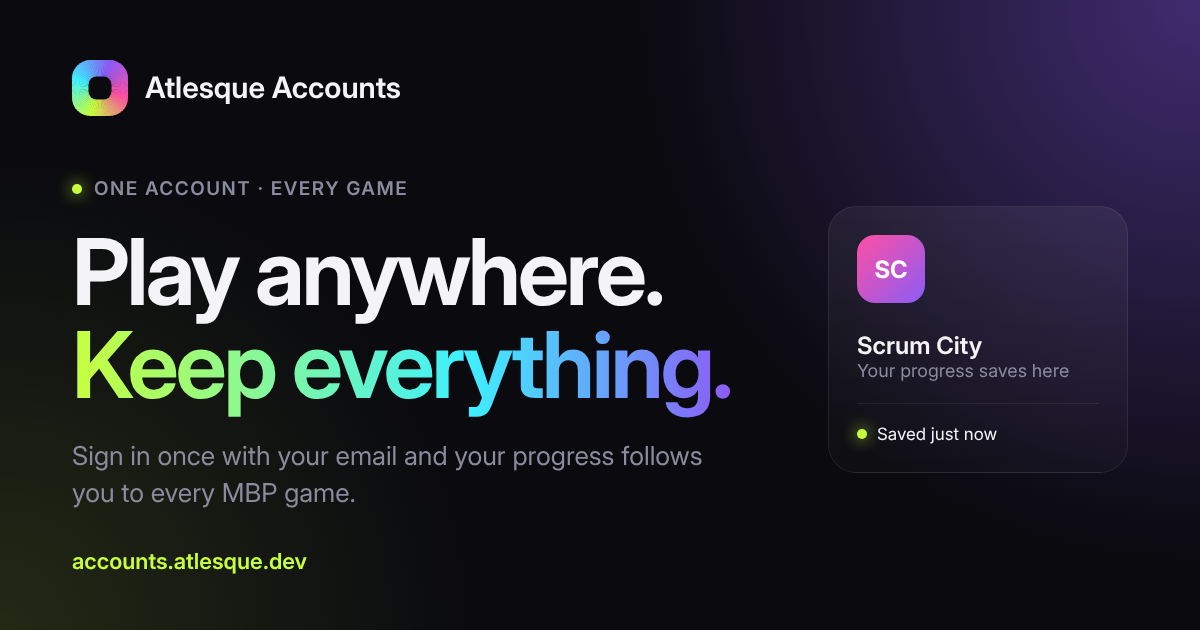
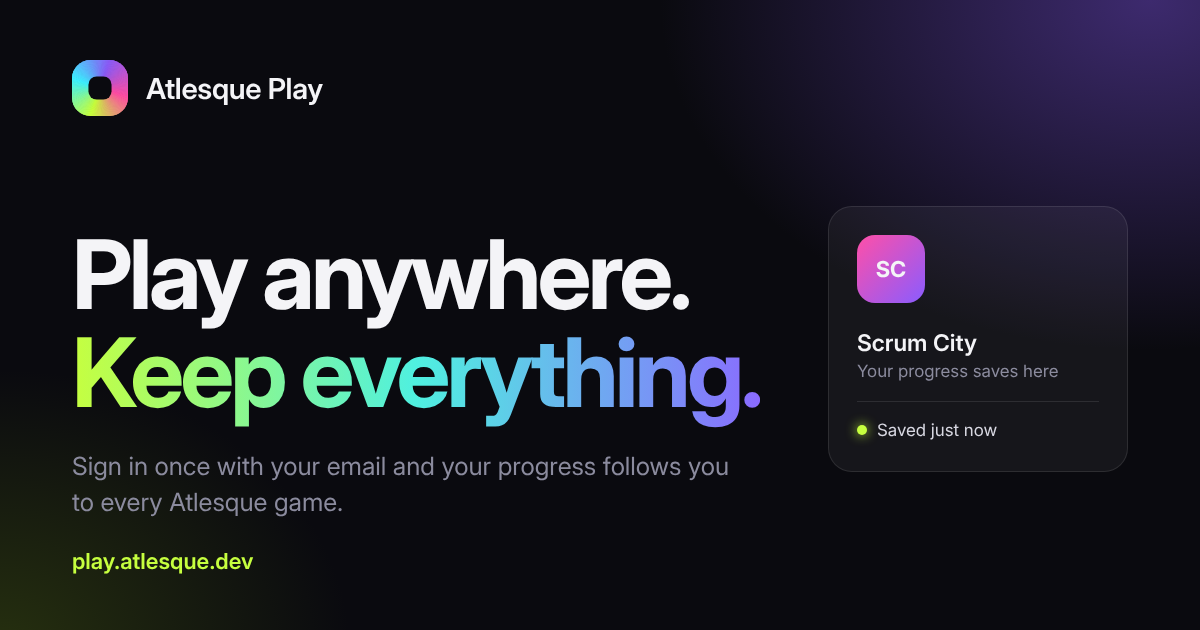
Rename Atlesque Accounts to Atlesque Play, at play.atlesque.dev (#13)
* Rename Atlesque Accounts to Atlesque Play, at play.atlesque.dev

Page titles, headers, SEO and Open Graph tags, a new share image, the web
manifest, admin, and the sign-in email now say Atlesque Play, and copy
says "every Atlesque game" instead of "every MBP game".

play.atlesque.dev becomes the Worker's main domain. accounts.atlesque.dev
stays as a second custom domain: its pages and sign-in links 301 to the
new domain, and /api/* and /mp/* still answer there so games that still
use the old address keep working. Internal names (Worker, D1 databases,
package, cookie and query-param prefixes) stay as they are.

Claude-Session: https://claude.ai/code/session_01LZMAp9kndfiNz945UTDwNJ

* Drop the "One account · every game" line

From the sign-in page hero and form, the signed-out account page, and
the share image.

Claude-Session: https://claude.ai/code/session_01LZMAp9kndfiNz945UTDwNJ

---------

diff --git a/public/signin.html b/public/signin.html
@@ -4,22 +4,22 @@
 <meta charset="utf-8">
 <meta name="viewport" content="width=device-width,initial-scale=1">
 <meta name="robots" content="noindex">
-<title>Sign in · Atlesque Accounts</title>
-<meta name="description" content="One account for every MBP game. Sign in once with your email and your progress follows you to every game, on any device. No password needed.">
-<link rel="canonical" href="https://accounts.atlesque.dev/signin">
+<title>Sign in · Atlesque Play</title>
+<meta name="description" content="One account for every Atlesque game. Sign in once with your email and your progress follows you to every game, on any device. No password needed.">
+<link rel="canonical" href="https://play.atlesque.dev/signin">
 <meta property="og:type" content="website">
-<meta property="og:site_name" content="Atlesque Accounts">
-<meta property="og:url" content="https://accounts.atlesque.dev/signin">
-<meta property="og:title" content="Sign in · Atlesque Accounts">
-<meta property="og:description" content="One account for every MBP game. Sign in once with your email and your progress follows you to every game, on any device. No password needed.">
-<meta property="og:image" content="https://accounts.atlesque.dev/og.png?v=2">
+<meta property="og:site_name" content="Atlesque Play">
+<meta property="og:url" content="https://play.atlesque.dev/signin">
+<meta property="og:title" content="Sign in · Atlesque Play">
+<meta property="og:description" content="One account for every Atlesque game. Sign in once with your email and your progress follows you to every game, on any device. No password needed.">
+<meta property="og:image" content="https://play.atlesque.dev/og.png?v=4">
 <meta property="og:image:width" content="1200">
 <meta property="og:image:height" content="630">
-<meta property="og:image:alt" content="Atlesque Accounts: Play anywhere. Keep everything.">
+<meta property="og:image:alt" content="Atlesque Play: Play anywhere. Keep everything.">
 <meta name="twitter:card" content="summary_large_image">
-<meta name="twitter:title" content="Sign in · Atlesque Accounts">
-<meta name="twitter:description" content="One account for every MBP game. Sign in once with your email and your progress follows you to every game, on any device. No password needed.">
-<meta name="twitter:image" content="https://accounts.atlesque.dev/og.png?v=2">
+<meta name="twitter:title" content="Sign in · Atlesque Play">
+<meta name="twitter:description" content="One account for every Atlesque game. Sign in once with your email and your progress follows you to every game, on any device. No password needed.">
+<meta name="twitter:image" content="https://play.atlesque.dev/og.png?v=4">
 <link rel="icon" href="/favicon.ico" sizes="32x32">
 <link rel="icon" href="/favicon.svg" type="image/svg+xml">
 <link rel="apple-touch-icon" href="/apple-touch-icon.png">
@@ -31,18 +31,17 @@
 <script src="/theme.js?v=3"></script>
 </head>
 <body>
-<header class="nav"><a class="logo" href="/"><span class="mark"></span>Atlesque Accounts</a><div class="nav-r"><span id="back"></span><button class="iconbtn" data-theme-toggle aria-label="Switch theme"><svg class="moon" viewBox="0 0 24 24" fill="none" stroke="currentColor" stroke-width="2" stroke-linecap="round" stroke-linejoin="round"><path d="M21 12.8A9 9 0 1 1 11.2 3a7 7 0 0 0 9.8 9.8z"/></svg><svg class="sun" viewBox="0 0 24 24" fill="none" stroke="currentColor" stroke-width="2" stroke-linecap="round"><circle cx="12" cy="12" r="4"/><path d="M12 2v2M12 20v2M4.9 4.9l1.4 1.4M17.7 17.7l1.4 1.4M2 12h2M20 12h2M4.9 19.1l1.4-1.4M17.7 6.3l1.4-1.4"/></svg><svg class="auto" viewBox="0 0 24 24" fill="none" stroke="currentColor" stroke-width="2"><circle cx="12" cy="12" r="9"/><path d="M12 3a9 9 0 0 1 0 18z" fill="currentColor" stroke="none"/></svg></button></div></header>
+<header class="nav"><a class="logo" href="/"><span class="mark"></span>Atlesque Play</a><div class="nav-r"><span id="back"></span><button class="iconbtn" data-theme-toggle aria-label="Switch theme"><svg class="moon" viewBox="0 0 24 24" fill="none" stroke="currentColor" stroke-width="2" stroke-linecap="round" stroke-linejoin="round"><path d="M21 12.8A9 9 0 1 1 11.2 3a7 7 0 0 0 9.8 9.8z"/></svg><svg class="sun" viewBox="0 0 24 24" fill="none" stroke="currentColor" stroke-width="2" stroke-linecap="round"><circle cx="12" cy="12" r="4"/><path d="M12 2v2M12 20v2M4.9 4.9l1.4 1.4M17.7 17.7l1.4 1.4M2 12h2M20 12h2M4.9 19.1l1.4-1.4M17.7 6.3l1.4-1.4"/></svg><svg class="auto" viewBox="0 0 24 24" fill="none" stroke="currentColor" stroke-width="2"><circle cx="12" cy="12" r="9"/><path d="M12 3a9 9 0 0 1 0 18z" fill="currentColor" stroke="none"/></svg></button></div></header>
 <div class="split">
   <section class="hero">
-    <p class="eyebrow"><span class="dot"></span>One account · every game</p>
     <h1>Play anywhere.<br><span class="grad">Keep everything.</span></h1>
-    <p>Sign in once with your email and your progress follows you to every MBP game, on any device. No password to remember.</p>
+    <p>Sign in once with your email and your progress follows you to every Atlesque game, on any device. No password to remember.</p>
     <div class="tiles" id="tiles"></div>
   </section>
   <main class="card" aria-live="polite"><div id="view"><p><span class="spin"></span>Loading…</p></div></main>
 </div>
 <script>
-// The hosted sign-in every MBP game sends players to. One email link both confirms the address and signs in;
+// The hosted sign-in every Atlesque game sends players to. One email link both confirms the address and signs in;
 // this tab waits for it (the link can be opened on any device) and then goes back to the game.
 const q = Object.fromEntries(new URLSearchParams(location.search));
 const target = q.client ? { client: q.client, redirect_uri: q.redirect_uri, state: q.state, code_challenge: q.code_challenge } : { next: q.next };
@@ -53,7 +52,7 @@ const post = (path, body) => fetch(path, { method: 'POST', headers: { 'content-t
 let game = null, timer = 0;
 const KEY = 'mbpg_wait:' + location.search; // a reload keeps waiting for the same link
 
-const gameName = () => game ? esc(game.name) : 'Atlesque Accounts';
+const gameName = () => game ? esc(game.name) : 'Atlesque Play';
 const shortName = () => esc(game.name.replace(/^MBP\s*-\s*/, ''));
 const initials = () => game.name.replace(/^MBP\s*-\s*/, '').split(/\s+/).map(w => w[0]).join('').slice(0, 2);
 const backLink = () => game ? `<p class="small center" style="margin:18px 0 0"><a href="${esc(game.url)}">Back to ${shortName()} without signing in</a></p>` : '';
@@ -61,7 +60,7 @@ const arrow = '<svg width="18" height="18" viewBox="0 0 24 24" fill="none" strok
 
 function emailForm(msg) {
   clearTimeout(timer); sessionStorage.removeItem(KEY);
-  view.innerHTML = `<p class="eyebrow">${game ? 'Sign in to' : 'One account · every game'}</p><h1>${game ? shortName() : 'Sign in'}</h1>
+  view.innerHTML = `${game ? '<p class="eyebrow">Sign in to</p>' : ''}<h1>${game ? shortName() : 'Sign in'}</h1>
 <p class="muted">New here? The same email link creates your account. No password needed.</p>
 <form id="f"><label for="email">Email</label><input id="email" type="email" autocomplete="email" placeholder="you@example.com" required autofocus>
 <p id="msg" class="err" role="alert" style="margin:10px 0 0">${msg ? esc(msg) : ''}</p><button class="btn" id="go">Email me a sign-in link ${arrow}</button></form>
@@ -81,7 +80,7 @@ function emailForm(msg) {
 function waiting(w) {
   view.innerHTML = `<div class="center"><div class="inbox"><svg width="48" height="48" viewBox="0 0 24 24" fill="none" stroke="currentColor" stroke-width="1.8" aria-hidden="true"><rect x="3" y="5" width="18" height="14" rx="3"/><path d="m3 7 9 6 9-6"/></svg></div>
 <h1>Check your email</h1><p class="muted">We just emailed a sign-in link to <b style="color:var(--ink)">${esc(w.email)}</b>.</p></div>
-<ol class="steps"><li>Open the email from Atlesque Accounts. It's fine to use your phone or another device.</li><li>Press <b>Sign in</b> in the email, then <b>Sign in</b> again on the page it opens.</li><li>That's it. This page will sign you in by itself, so you can leave it open.</li></ol>
+<ol class="steps"><li>Open the email from Atlesque Play. It's fine to use your phone or another device.</li><li>Press <b>Sign in</b> in the email, then <b>Sign in</b> again on the page it opens.</li><li>That's it. This page will sign you in by itself, so you can leave it open.</li></ol>
 <div class="note"><span class="spin"></span>Waiting for you to open the link…</div>
 <p class="small center">No email after a minute? Look in your spam folder, or <a href="#" id="again">try a different email</a>.</p>`;
   document.getElementById('again').addEventListener('click', e => { e.preventDefault(); emailForm(); });

diff --git a/public/index.html b/public/index.html
@@ -3,35 +3,35 @@
 <head>
 <meta charset="utf-8">
 <meta name="viewport" content="width=device-width,initial-scale=1">
-<title>Atlesque Accounts · One sign-in, every game</title>
-<meta name="description" content="One account for every MBP game. Sign in once with your email and your progress follows you to every game, on any device. No password needed.">
-<link rel="canonical" href="https://accounts.atlesque.dev/">
+<title>Atlesque Play · One sign-in, every game</title>
+<meta name="description" content="One account for every Atlesque game. Sign in once with your email and your progress follows you to every game, on any device. No password needed.">
+<link rel="canonical" href="https://play.atlesque.dev/">
 <meta property="og:type" content="website">
-<meta property="og:site_name" content="Atlesque Accounts">
-<meta property="og:url" content="https://accounts.atlesque.dev/">
-<meta property="og:title" content="Atlesque Accounts · One sign-in, every game">
-<meta property="og:description" content="One account for every MBP game. Sign in once with your email and your progress follows you to every game, on any device. No password needed.">
-<meta property="og:image" content="https://accounts.atlesque.dev/og.png?v=2">
+<meta property="og:site_name" content="Atlesque Play">
+<meta property="og:url" content="https://play.atlesque.dev/">
+<meta property="og:title" content="Atlesque Play · One sign-in, every game">
+<meta property="og:description" content="One account for every Atlesque game. Sign in once with your email and your progress follows you to every game, on any device. No password needed.">
+<meta property="og:image" content="https://play.atlesque.dev/og.png?v=4">
 <meta property="og:image:width" content="1200">
 <meta property="og:image:height" content="630">
-<meta property="og:image:alt" content="Atlesque Accounts: Play anywhere. Keep everything.">
+<meta property="og:image:alt" content="Atlesque Play: Play anywhere. Keep everything.">
 <meta name="twitter:card" content="summary_large_image">
-<meta name="twitter:title" content="Atlesque Accounts · One sign-in, every game">
-<meta name="twitter:description" content="One account for every MBP game. Sign in once with your email and your progress follows you to every game, on any device. No password needed.">
-<meta name="twitter:image" content="https://accounts.atlesque.dev/og.png?v=2">
+<meta name="twitter:title" content="Atlesque Play · One sign-in, every game">
+<meta name="twitter:description" content="One account for every Atlesque game. Sign in once with your email and your progress follows you to every game, on any device. No password needed.">
+<meta name="twitter:image" content="https://play.atlesque.dev/og.png?v=4">
 <link rel="icon" href="/favicon.ico" sizes="32x32">
 <link rel="icon" href="/favicon.svg" type="image/svg+xml">
 <link rel="apple-touch-icon" href="/apple-touch-icon.png">
 <link rel="manifest" href="/site.webmanifest">
 <meta name="theme-color" content="#0a0a0f" media="(prefers-color-scheme: dark)">
 <meta name="theme-color" content="#f6f6f9" media="(prefers-color-scheme: light)">
-<script type="application/ld+json">{"@context":"https://schema.org","@type":"WebSite","name":"Atlesque Accounts","url":"https://accounts.atlesque.dev/","description":"One account for every MBP game: sign in once, keep your progress."}</script>
+<script type="application/ld+json">{"@context":"https://schema.org","@type":"WebSite","name":"Atlesque Play","url":"https://play.atlesque.dev/","description":"One account for every Atlesque game: sign in once, keep your progress."}</script>
 <link rel="stylesheet" href="/style.css?v=3">
 <link rel="preload" href="/fonts/inter.woff2" as="font" type="font/woff2" crossorigin>
 <script src="/theme.js?v=3"></script>
 </head>
 <body>
-<header class="nav"><a class="logo" href="/"><span class="mark"></span>Atlesque Accounts</a><div class="nav-r"><span id="me" class="row"></span><button class="iconbtn" data-theme-toggle aria-label="Switch theme"><svg class="moon" viewBox="0 0 24 24" fill="none" stroke="currentColor" stroke-width="2" stroke-linecap="round" stroke-linejoin="round"><path d="M21 12.8A9 9 0 1 1 11.2 3a7 7 0 0 0 9.8 9.8z"/></svg><svg class="sun" viewBox="0 0 24 24" fill="none" stroke="currentColor" stroke-width="2" stroke-linecap="round"><circle cx="12" cy="12" r="4"/><path d="M12 2v2M12 20v2M4.9 4.9l1.4 1.4M17.7 17.7l1.4 1.4M2 12h2M20 12h2M4.9 19.1l1.4-1.4M17.7 6.3l1.4-1.4"/></svg><svg class="auto" viewBox="0 0 24 24" fill="none" stroke="currentColor" stroke-width="2"><circle cx="12" cy="12" r="9"/><path d="M12 3a9 9 0 0 1 0 18z" fill="currentColor" stroke="none"/></svg></button></div></header>
+<header class="nav"><a class="logo" href="/"><span class="mark"></span>Atlesque Play</a><div class="nav-r"><span id="me" class="row"></span><button class="iconbtn" data-theme-toggle aria-label="Switch theme"><svg class="moon" viewBox="0 0 24 24" fill="none" stroke="currentColor" stroke-width="2" stroke-linecap="round" stroke-linejoin="round"><path d="M21 12.8A9 9 0 1 1 11.2 3a7 7 0 0 0 9.8 9.8z"/></svg><svg class="sun" viewBox="0 0 24 24" fill="none" stroke="currentColor" stroke-width="2" stroke-linecap="round"><circle cx="12" cy="12" r="4"/><path d="M12 2v2M12 20v2M4.9 4.9l1.4 1.4M17.7 17.7l1.4 1.4M2 12h2M20 12h2M4.9 19.1l1.4-1.4M17.7 6.3l1.4-1.4"/></svg><svg class="auto" viewBox="0 0 24 24" fill="none" stroke="currentColor" stroke-width="2"><circle cx="12" cy="12" r="9"/><path d="M12 3a9 9 0 0 1 0 18z" fill="currentColor" stroke="none"/></svg></button></div></header>
 <main class="wrap" id="view"><p><span class="spin"></span>Loading…</p></main>
 <script>
 // The account hub: who you're signed in as and the games you've played.
@@ -48,8 +48,8 @@ const short = n => n.replace(/^MBP\s*-\s*/, '');
 const initials = n => short(n).split(/\s+/).map(w => w[0]).join('').slice(0, 2);
 fetch('/api/account').then(r => r.json()).then(a => {
   if (!a.user) {
-    view.innerHTML = `<div class="card" style="max-width:460px;margin:8vh auto 0"><p class="eyebrow"><span class="dot"></span>One account · every game</p>
-<h1>Your Atlesque account</h1><p class="muted">Sign in once with your email and your progress follows you to every MBP game. No password needed.</p><a class="btn" href="/signin">Sign in</a></div>`;
+    view.innerHTML = `<div class="card" style="max-width:460px;margin:8vh auto 0">
+<h1>Your Atlesque account</h1><p class="muted">Sign in once with your email and your progress follows you to every Atlesque game. No password needed.</p><a class="btn" href="/signin">Sign in</a></div>`;
     return;
   }
   const email = esc(a.user.email), letter = esc(a.user.email[0]);

diff --git a/src/index.js b/src/index.js
@@ -3,8 +3,8 @@ import { sendSignInEmail, signInEmail } from './email.js';
 import { GameRoom } from './room.js';
 import { DAY, HOUR, HttpError, MIN, cookie, esc, getCookie, hash, json, normalizeEmail, now, pkceChallenge, randomToken, readJson } from './util.js';
 
-// ================= ATLESQUE ACCOUNTS =================
-// One account per email, shared by every MBP game. Sign-in is passwordless: the player asks for a link on
+// ================= ATLESQUE PLAY =================
+// One account per email, shared by every Atlesque game. Sign-in is passwordless: the player asks for a link on
 // the hosted page (/signin), the emailed link confirms the address, and the tab that asked carries on.
 // Games never see the email flow: they send the player to /signin with a PKCE challenge and swap the
 // code they get back for a bearer token (/api/token). The admin page (/admin) is for ADMIN_EMAILS.
@@ -14,9 +14,17 @@ const WEB_COOKIE = 'mbpg_session';
 const MAX_SAVE = 64 * 1024;
 const LIMITS = { perEmail: [5, 15 * MIN], perIp: [20, HOUR] };
 
+// The site's old name. Its pages and sign-in links move to play.atlesque.dev; the game API and multiplayer
+// still answer here, so a game that hasn't switched over keeps working.
+const OLD_HOST = 'accounts.atlesque.dev', HOST = 'play.atlesque.dev';
+
 export default {
   async fetch(req, env, ctx) {
     const url = new URL(req.url);
+    if (url.hostname === OLD_HOST && (req.method === 'GET' || req.method === 'HEAD') && !/^\/(api|mp)\//.test(url.pathname)) {
+      url.hostname = HOST;
+      return Response.redirect(url.toString(), 301);
+    }
     // multiplayer: the WebSocket goes straight to the game's room, untouched (a 101 response can't take CORS headers)
     const mp = url.pathname.match(/^\/mp\/([a-z0-9-]+)$/);
     if (mp) return joinRoom(req, env, mp[1]);
@@ -139,7 +147,7 @@ function readTarget(q) {
     return { client: null, next };
   }
   if (!GAMES[client]) throw new HttpError(400, 'bad_client', 'That game is not one of ours.');
-  if (!redirectAllowed(client, q.redirect_uri)) throw new HttpError(400, 'bad_redirect', 'That page is not allowed to sign in with Atlesque Accounts.');
+  if (!redirectAllowed(client, q.redirect_uri)) throw new HttpError(400, 'bad_redirect', 'That page is not allowed to sign in with Atlesque Play.');
   if (typeof q.code_challenge !== 'string' || !/^[A-Za-z0-9_-]{43}$/.test(q.code_challenge)) throw new HttpError(400, 'bad_challenge', 'The game sent an invalid sign-in request.');
   return { client, redirect_uri: q.redirect_uri, state: typeof q.state === 'string' ? q.state.slice(0, 200) : '', code_challenge: q.code_challenge };
 }
@@ -260,8 +268,8 @@ async function confirmLink(req, env) {
 }
 function page(title, body, status = 200, headers = {}) {
   return new Response(`<!doctype html><html lang="en"><head><meta charset="utf-8"><meta name="viewport" content="width=device-width,initial-scale=1"><meta name="robots" content="noindex">
-<title>${esc(title)} · Atlesque Accounts</title><link rel="icon" href="/favicon.ico" sizes="32x32"><link rel="icon" href="/favicon.svg" type="image/svg+xml"><link rel="apple-touch-icon" href="/apple-touch-icon.png"><link rel="stylesheet" href="/style.css?v=3"><script src="/theme.js?v=3"></script></head>
-<body><header class="nav"><a class="logo" href="/"><span class="mark"></span>Atlesque Accounts</a></header><main class="card narrow">${body}</main></body></html>`,
+<title>${esc(title)} · Atlesque Play</title><link rel="icon" href="/favicon.ico" sizes="32x32"><link rel="icon" href="/favicon.svg" type="image/svg+xml"><link rel="apple-touch-icon" href="/apple-touch-icon.png"><link rel="stylesheet" href="/style.css?v=3"><script src="/theme.js?v=3"></script></head>
+<body><header class="nav"><a class="logo" href="/"><span class="mark"></span>Atlesque Play</a></header><main class="card narrow">${body}</main></body></html>`,
   { status, headers: { 'content-type': 'text/html; charset=utf-8', 'cache-control': 'no-store', 'referrer-policy': 'same-origin', ...headers } });
 }
 

diff --git a/src/email.js b/src/email.js
@@ -5,7 +5,7 @@ import { esc } from './util.js';
 // the link is logged instead, so sign-in still works on a laptop.
 
 // Says who sent it and why, in both parts: a bare "Sign in" button from an unknown sender reads like phishing to Gmail.
-const FOOTER = 'You got this email because someone asked to sign in with this address at accounts.atlesque.dev, the account page for Atlesque Accounts.';
+const FOOTER = 'You got this email because someone asked to sign in with this address at play.atlesque.dev, the sign-in page for Atlesque Play.';
 
 export function signInEmail({ link, gameName, minutes }) {
   const what = gameName ? `to keep playing ${gameName}` : 'to your Atlesque account';
@@ -15,7 +15,7 @@ export function signInEmail({ link, gameName, minutes }) {
   const html = `<!doctype html><html><body style="margin:0;background:#0a0a0f;font-family:Inter,Arial,Helvetica,sans-serif;color:#f4f4f7">
 <table width="100%" cellpadding="0" cellspacing="0" style="background:#0a0a0f;padding:32px 12px"><tr><td align="center">
 <table width="100%" cellpadding="0" cellspacing="0" style="max-width:480px;background:#14141c;border:1px solid #26262f;border-radius:24px;padding:32px">
-<tr><td style="font-size:13px;font-weight:bold;letter-spacing:.08em;text-transform:uppercase;color:#8b8b9e">Atlesque Accounts</td></tr>
+<tr><td style="font-size:13px;font-weight:bold;letter-spacing:.08em;text-transform:uppercase;color:#8b8b9e">Atlesque Play</td></tr>
 <tr><td style="padding:14px 0 6px;font-size:26px;font-weight:bold;letter-spacing:-.02em">Sign in ${esc(what)}</td></tr>
 <tr><td style="padding:6px 0 22px;font-size:15px;line-height:1.5;color:#b4b4c4">Press the button to sign in. It also confirms this email address for your Atlesque account.</td></tr>
 <tr><td><a href="${esc(link)}" style="display:inline-block;background:#c8ff3d;color:#0a0a0f;font-weight:bold;text-decoration:none;padding:14px 30px;border-radius:99px;font-size:16px">Sign in</a></td></tr>
@@ -23,12 +23,12 @@ export function signInEmail({ link, gameName, minutes }) {
 <tr><td style="padding:16px 0 0;font-size:13px;line-height:1.5;color:#8b8b9e">Button not working? Copy this link into your browser:<br><a href="${esc(link)}" style="color:#b4b4c4;word-break:break-all">${esc(link)}</a></td></tr>
 </table>
 <p style="max-width:480px;margin:16px auto 0;font-size:12px;line-height:1.5;color:#8b8b9e">${esc(FOOTER)}</p></td></tr></table></body></html>`;
-  return { subject: gameName ? `Sign in to ${gameName}` : 'Sign in to Atlesque Accounts', text, html };
+  return { subject: gameName ? `Sign in to ${gameName}` : 'Sign in to Atlesque Play', text, html };
 }
 
 // answers 'sent', or 'logged' when there is no mail service; throws when the mail service refuses
 export async function sendSignInEmail(env, to, msg) {
   if (!env.EMAIL) { console.log(`[mbp-games] no EMAIL binding; sign-in mail for ${to}:\n${msg.text}`); return 'logged'; }
-  await env.EMAIL.send({ to, from: { email: env.MAIL_FROM, name: env.MAIL_FROM_NAME || 'Atlesque Accounts' }, subject: msg.subject, text: msg.text, html: msg.html });
+  await env.EMAIL.send({ to, from: { email: env.MAIL_FROM, name: env.MAIL_FROM_NAME || 'Atlesque Play' }, subject: msg.subject, text: msg.text, html: msg.html });
   return 'sent';
 }

diff --git a/public/admin.html b/public/admin.html
@@ -4,7 +4,7 @@
 <meta charset="utf-8">
 <meta name="viewport" content="width=device-width,initial-scale=1">
 <meta name="robots" content="noindex">
-<title>Atlesque Accounts admin</title>
+<title>Atlesque Play admin</title>
 <link rel="icon" href="/favicon.ico" sizes="32x32">
 <link rel="icon" href="/favicon.svg" type="image/svg+xml">
 <link rel="apple-touch-icon" href="/apple-touch-icon.png">
@@ -16,7 +16,7 @@
 <script src="/theme.js?v=3"></script>
 </head>
 <body>
-<header class="nav"><div class="row"><a class="logo" href="/"><span class="mark"></span>Atlesque Accounts</a><span class="tag">Admin</span></div><div class="nav-r"><a class="sbtn" href="/">Account</a><span id="me"></span><button class="iconbtn" data-theme-toggle aria-label="Switch theme"><svg class="moon" viewBox="0 0 24 24" fill="none" stroke="currentColor" stroke-width="2" stroke-linecap="round" stroke-linejoin="round"><path d="M21 12.8A9 9 0 1 1 11.2 3a7 7 0 0 0 9.8 9.8z"/></svg><svg class="sun" viewBox="0 0 24 24" fill="none" stroke="currentColor" stroke-width="2" stroke-linecap="round"><circle cx="12" cy="12" r="4"/><path d="M12 2v2M12 20v2M4.9 4.9l1.4 1.4M17.7 17.7l1.4 1.4M2 12h2M20 12h2M4.9 19.1l1.4-1.4M17.7 6.3l1.4-1.4"/></svg><svg class="auto" viewBox="0 0 24 24" fill="none" stroke="currentColor" stroke-width="2"><circle cx="12" cy="12" r="9"/><path d="M12 3a9 9 0 0 1 0 18z" fill="currentColor" stroke="none"/></svg></button></div></header>
+<header class="nav"><div class="row"><a class="logo" href="/"><span class="mark"></span>Atlesque Play</a><span class="tag">Admin</span></div><div class="nav-r"><a class="sbtn" href="/">Account</a><span id="me"></span><button class="iconbtn" data-theme-toggle aria-label="Switch theme"><svg class="moon" viewBox="0 0 24 24" fill="none" stroke="currentColor" stroke-width="2" stroke-linecap="round" stroke-linejoin="round"><path d="M21 12.8A9 9 0 1 1 11.2 3a7 7 0 0 0 9.8 9.8z"/></svg><svg class="sun" viewBox="0 0 24 24" fill="none" stroke="currentColor" stroke-width="2" stroke-linecap="round"><circle cx="12" cy="12" r="4"/><path d="M12 2v2M12 20v2M4.9 4.9l1.4 1.4M17.7 17.7l1.4 1.4M2 12h2M20 12h2M4.9 19.1l1.4-1.4M17.7 6.3l1.4-1.4"/></svg><svg class="auto" viewBox="0 0 24 24" fill="none" stroke="currentColor" stroke-width="2"><circle cx="12" cy="12" r="9"/><path d="M12 3a9 9 0 0 1 0 18z" fill="currentColor" stroke="none"/></svg></button></div></header>
 <main class="wrap">
   <div id="view"><p><span class="spin"></span>Loading…</p></div>
 </main>

diff --git a/test/accounts.test.js b/test/accounts.test.js
@@ -4,7 +4,7 @@ import { redirectAllowed } from '../src/clients.js';
 import { pkceChallenge } from '../src/util.js';
 import { makeD1 } from './d1.js';
 
-const APP = 'https://accounts.atlesque.dev', GAME = 'https://mbp-scrum-city.atlesque.dev', BACK = `${GAME}/`;
+const APP = 'https://play.atlesque.dev', GAME = 'https://mbp-scrum-city.atlesque.dev', BACK = `${GAME}/`;
 let env, mails;
 beforeEach(() => {
   mails = [];
@@ -47,7 +47,7 @@ async function signIn(email = 'player@example.com') {
   return { ...(await tok.json()), cookie: cookieOf(done), code: back.searchParams.get('mbpg_code'), verifier, request, poll };
 }
 
-describe('Atlesque Accounts sign-in', () => {
+describe('Atlesque Play sign-in', () => {
   it('signs a new player in by email link and hands the game a token', async () => {
     const s = await signIn();
     expect(s.user.email).toBe('player@example.com');
@@ -92,6 +92,23 @@ describe('Atlesque Accounts sign-in', () => {
   it('limits how many emails one address can ask for', async () => {
     for (let i = 0; i < 5; i++) expect((await call('/api/signin/start', { method: 'POST', origin: APP, body: { email: 'spam@b.co' } })).status).toBe(200);
     expect((await call('/api/signin/start', { method: 'POST', origin: APP, body: { email: 'spam@b.co' } })).status).toBe(429);
+  });
+});
+
+describe('old domain', () => {
+  const OLD = 'https://accounts.atlesque.dev';
+  it('sends pages and sign-in links on to play.atlesque.dev', async () => {
+    for (const path of ['/', '/signin?client=scrum-city&state=s1', '/admin', '/auth/link?t=abc']) {
+      const res = await worker.fetch(new Request(OLD + path), env, {});
+      expect(res.status).toBe(301);
+      expect(res.headers.get('location')).toBe(APP + path);
+    }
+  });
+  it('still answers the game API for games that use the old address', async () => {
+    const { token } = await signIn();
+    const res = await worker.fetch(new Request(OLD + '/api/me', { headers: { origin: GAME, authorization: `Bearer ${token}` } }), env, {});
+    expect(res.status).toBe(200);
+    expect((await res.json()).user.email).toBe('player@example.com');
   });
 });
 

diff --git a/test/room.test.js b/test/room.test.js
@@ -93,7 +93,7 @@ describe('multiplayer room', () => {
 
   it('only lets the game\'s own pages in', async () => {
     const env = { ROOMS: { idFromName: n => n, get: () => ({ fetch: async () => new Response('room') }) } };
-    const ask = (path, origin) => worker.fetch(new Request('https://accounts.atlesque.dev' + path, { headers: { upgrade: 'websocket', ...(origin ? { origin } : {}) } }), env, {});
+    const ask = (path, origin) => worker.fetch(new Request('https://play.atlesque.dev' + path, { headers: { upgrade: 'websocket', ...(origin ? { origin } : {}) } }), env, {});
     expect((await ask('/mp/scrum-city', 'https://evil.example')).status).toBe(403);
     expect((await ask('/mp/nope', 'https://mbp-scrum-city.atlesque.dev')).status).toBe(404);
     expect(await (await ask('/mp/scrum-city', 'https://mbp-scrum-city.atlesque.dev')).text()).toBe('room');

diff --git a/public/style.css b/public/style.css
@@ -1,4 +1,4 @@
-/* Atlesque Accounts: follows the device (auto) unless the player picks light or dark (theme.js) */
+/* Atlesque Play: follows the device (auto) unless the player picks light or dark (theme.js) */
 @font-face{font-family:'Inter';src:url(/fonts/inter.woff2) format('woff2');font-weight:100 900;font-display:swap}
 :root{
   --bg:#0a0a0f; --surface:#14141c; --surface-2:#1c1c27; --line:rgba(255,255,255,.07); --hair:rgba(255,255,255,.25);

diff --git a/README.md b/README.md
@@ -1,6 +1,6 @@
-# Atlesque Accounts
+# Atlesque Play
 
-One account for every MBP game: players sign in once with their email and their progress in each game is saved to it. A Cloudflare Worker with a D1 database, at **https://accounts.atlesque.dev**.
+One account for every Atlesque game: players sign in once with their email and their progress in each game is saved to it. A Cloudflare Worker with a D1 database, at **https://play.atlesque.dev**.
 
 The first game on it is [MBP - Scrum City](https://github.com/atlesque/mbp-scrum-city).
 
@@ -20,7 +20,7 @@ There are no passwords. A link works once and runs out after 15 minutes; an emai
 ### The flow, for a game
 
 1. Make a random `code_verifier` and its `code_challenge` = base64url(SHA-256(verifier)), plus a random `state`; keep them in `localStorage`.
-2. Send the player to `https://accounts.atlesque.dev/signin?client=<game id>&redirect_uri=<this page>&state=<state>&code_challenge=<challenge>`.
+2. Send the player to `https://play.atlesque.dev/signin?client=<game id>&redirect_uri=<this page>&state=<state>&code_challenge=<challenge>`.
 3. They come back to `redirect_uri` with `?mbpg_code=…&mbpg_state=…`. Check the state, then `POST /api/token` with `{ code, code_verifier, client, redirect_uri }` to get `{ token, user: { id, email }, expiresAt }`. Tokens last 90 days.
 4. Send the token as `Authorization: Bearer <token>`:
    - `GET /api/me` → `{ user }`
@@ -31,7 +31,7 @@ There are no passwords. A link works once and runs out after 15 minutes; an emai
 
 ## Multiplayer
 
-One shared room per game, at **`wss://accounts.atlesque.dev/mp/<game>`**: a Durable Object (`src/room.js`) that takes up to 16 players and relays what each sends to the others. Each client remains the authority on its own player. World incidents are server-owned and persisted across hibernation. They take turns like Scrum City's solo mode: one at a time, a quiet 20-40 s after each, and every waiting clock held meanwhile and while nobody is out in the city. A Durable Object alarm wakes at the next deadline. The alarm and incident state are removed when the last player leaves. Only a game's own `origins` can join.
+One shared room per game, at **`wss://play.atlesque.dev/mp/<game>`**: a Durable Object (`src/room.js`) that takes up to 16 players and relays what each sends to the others. Each client remains the authority on its own player. World incidents are server-owned and persisted across hibernation. They take turns like Scrum City's solo mode: one at a time, a quiet 20-40 s after each, and every waiting clock held meanwhile and while nobody is out in the city. A Durable Object alarm wakes at the next deadline. The alarm and incident state are removed when the last player leaves. Only a game's own `origins` can join.
 
 - First message: `{ t: 'hello', name }` (cut to 16 characters). The answer is `{ t: 'welcome', id, max, players: [{ id, name }] }`; the others get `{ t: 'join', id, name }`, and `{ t: 'leave', id }` when someone goes.
 - World events: the server broadcasts `events {now, active}` snapshots on joins, incident transitions and accepted actions. Incidents carry a unique key, seed, anchor, start/end time, boss HP, selected UFO victim/capture and collected cash indices. `evhit`, `evgrab` and `evcash` request damage, capture or a landed cash collection. Capture and collection use the player's last reported state; collections allow vehicles and require contact within 1.2 metres. `evaward` confirms a unique $25 payout. These server message types cannot be forged through the relay. The event catalog and deterministic random helper must match Scrum City's copies.
@@ -56,6 +56,6 @@ Point a local copy of the game at it with `?debug&accounts=http://localhost:8787
 - **D1 database** `mbp-games` (id in `wrangler.jsonc`). Schema changes are new files in `migrations/`.
 - **Email**: Cloudflare Email Service, with `atlesque.dev` onboarded for sending (Compute → Email Service → Email Sending). Mail comes from `noreply@atlesque.dev`; the binding is restricted to that sender.
 - **Secret** `ADMIN_EMAILS`: comma-separated emails that can open `/admin`. Set it in the Worker's settings (or `wrangler secret put ADMIN_EMAILS`).
-- **Domain**: `accounts.atlesque.dev`, a custom domain on the Worker (from `routes` in `wrangler.jsonc`).
+- **Domain**: `play.atlesque.dev`, a custom domain on the Worker (from `routes` in `wrangler.jsonc`). The old name, `accounts.atlesque.dev`, stays on the Worker too: its pages and sign-in links redirect to `play.atlesque.dev`, while `/api/*` and `/mp/*` still answer there so games that haven't switched keep working. Players signed in on the old site sign in once more on the new one.
 - A cron at 03:17 UTC clears out expired links, codes and sign-ins.
 - **Durable Object** `GameRoom` (binding `ROOMS`) for multiplayer, created by the `v1` migration in `wrangler.jsonc` on the first deploy that has it. No dashboard setup.
